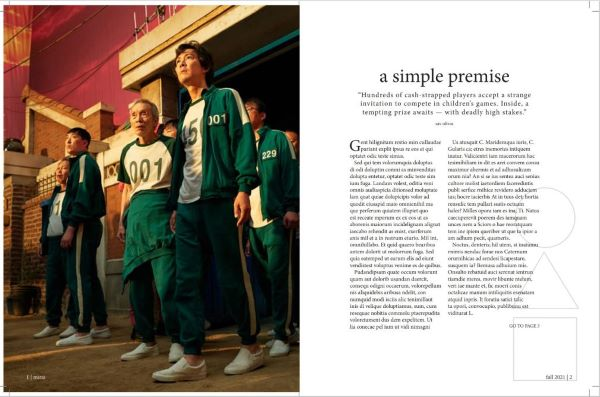
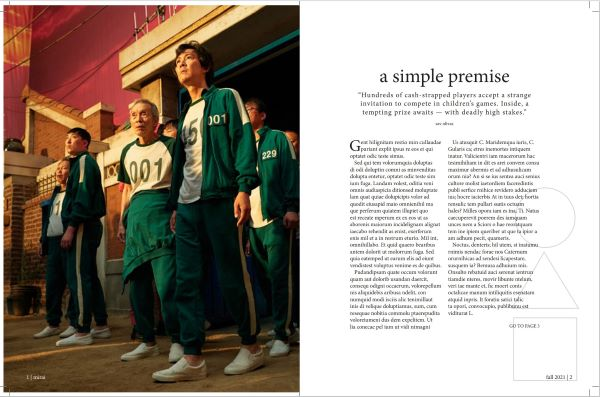
Finishing Structural Changes
To-Do: Figure out Squid Game centering

diff --git a/index.html b/index.html
@@ -9,37 +9,39 @@
  <body>
    <header>
     <h1>SAVLIVAS Graphic Design</h1>
+    <h2>Click an icon to navigate between portfolios.</h2>
    </header>
+
    <main>
-     <h3>Brochures</h3>
-     <a href="https://savlivas.github.io/portfolio/brochure.html">
-       <img id="image1"
-          class="fit-picture"
-          src="images/brochure-nav-icon.jpg"
-          alt="Brochure link."></a>
-     <h3>Magazine Work</h3>
-     <a href="https://savlivas.github.io/portfolio/magazine.html">
-       <img id="image2"
-          class="fit-picture"
-          src="images/magazine-navigation-icon.jpg"
-          alt="Magazine link."></a>
-     <h3>Client Work</h3>
-     <a href="https://savlivas.github.io/portfolio/client-work.html">
-       <img id="image3"
-          class="fit-picture"
-          src="images/client-navigation-icon.jpg"
-          alt="Client link."></a>
-     <h3>T-Shirt Designs</h3>
-     <a href="https://savlivas.github.io/portfolio/t-shirts.html">
-        <img id="image4"
-             class="fit-picture"
-             src="images/shirt-navigation-icon.jpg"
-             alt="Shirt link."></a>
-
-
-   </main>
-   <footer>
-     <p>Contact Information</p>
-   </footer>
+     <section id="brochure-icon">
+       <h2>Brochures</h2>
+       <a href="https://savlivas.github.io/portfolio/brochure.html">
+         <img
+            class="fit-picture"
+            src="images/brochure-nav-icon.jpg"
+            alt="Brochure link."></a></section>
+     <section id="t-shirt-icon">
+        <h2>T-Shirt Designs</h2>
+        <a href="https://savlivas.github.io/portfolio/t-shirts.html">
+          <img
+            class="fit-picture"
+            src="images/shirt-navigation-icon.jpg"
+            alt="Shirt link."></a></section>
+     <section id="client-icon">
+       <h2>Client Work</h2>
+       <a href="https://savlivas.github.io/portfolio/client-work.html">
+         <img
+            class="fit-picture"
+            src="images/client-navigation-icon.jpg"
+            alt="Client link."></a></section>
+     <section id="magazine-icon">
+        <h2>Magazine Spreads</h2>
+        <a href="https://savlivas.github.io/portfolio/magazine.html">
+          <img
+            class="fit-picture"
+            src="images/magazine-navigation-icon.jpg"
+            alt="Magazine link."></a></section>
+     </main>
+   <footer><footer>
  </body>
 </html>

diff --git a/css/style.css b/css/style.css
@@ -9,45 +9,53 @@ body {font-family: Georgia, Garamond, "Times New Roman", serif;
 
       text-align: center;}
 
+h1, h2, h3 {font-family: "Trebuchet MS", Verdana, Arial, sans-serif;
+                  text-align: center;}
+h1{text-transform: uppercase;
+         font-size: 4em;
+         color: rgba(255, 255, 255, 1);
+
+         margin-top: 0.5em;
+         margin-bottom: 0.5em;}
+h2{font-size: 0.8em;
+         color: rgba(150, 150, 150, 1);
+
+         margin-top: 0.25em;}
+
+
 header, footer {background-color: rgba(5, 1, 13, 1)}
-main{display: grid;
-     grid-template-columns: 1fr, 1fr;
+main{
+     display: grid;
+     grid-template-columns: 1fr 1fr;
      grid-template-areas:
-     "image1" "image2"
-     "image3" "image4";
+     "image1 image2"
+     "image3 image4";
      grid-gap: 16px;
-     margin: 0 auto;}
+    }
 
 section {}
 
-h1, h2, h3 {font-family: "Trebuchet MS", Verdana, Arial, sans-serif;
-            text-align: center;}
-h1{text-transform: uppercase;
-   font-size: 4em;
-   color: rgba(255, 255, 255, 1);
-
-   margin-top: 0.5em;
-   margin-bottom: 0.5em;}
-h2{font-size: 0.8em;
-   color: rgba(150, 150, 150, 1);
-
-   margin-top: 0.25em;}
-
 section img{text-align: center;}
 section p{text-align: center;
-          max-width: 960px;}
+          max-width: 960px;
+          color: rgba(255,255,255,1);}
+
 
 a:link {color: rgba(229,152,155,1);}
 a:visited {color: rgba(181, 131, 141,1);}
 a:hover{color: rgba(255, 221, 210,1);}
 a:active{color: rgba(217, 204, 217, 1);}
 
-#squid-game{display: grid;
-     grid-template-columns: 1fr;
-     grid-template-areas:
-     "image1"
-     "image2"
-     "image3"
-     "image4";
-     grid-gap: 16px;
-     margin: auto;}
+#image1{
+  grid-area: image1;
+}
+#image2{
+  grid-area: image2;
+}
+#image3{
+  grid-area: image3;
+}
+#image4{
+  grid-area: image4;
+}
+#squid-game{margin:auto;}

diff --git a/portfolio/client-work.html b/portfolio/client-work.html
@@ -9,12 +9,12 @@
  <body>
    <header>
      <h1>Client Work</h1>
+     <h2><a href="https://savlivas.github.io/index.html">Home</a> | <a href="https://savlivas.github.io/portfolio/brochure.html">Brochure Work</a> | <a href="https://savlivas.github.io/portfolio/magazine.html">Magazine Spreads</a> | Client Work | <a href="https://savlivas.github.io/portfolio/t-shirts.html">T-Shirts</a></h2>
    </header>
 
    <main>
-     <h2><a href="https://savlivas.github.io/index.html">Home</a> | <a href="https://savlivas.github.io/portfolio/brochure.html">Brochure Work</a> | <a href="https://savlivas.github.io/portfolio/magazine.html">Magazine Spreads</a> | Client Work | <a href="https://savlivas.github.io/portfolio/t-shirts.html">T-Shirts</a></h2>
-     <h3>Windy Chord Newsletter - Tournament Results</h3>
      <section id="assassin">
+       <h3>Windy Chord Newsletter - Tournament Results</h3>
        <img id="image1"
             class="fit-picture"
             src="../images/assassin-kills-resized.png"
@@ -23,17 +23,14 @@
             class="assassin-ranking"
             src="../images/assassin-ranking-resized.png"
             alt="Ranking.">
-
      </section>
-     <h3>AEC Photography Logo Commission</h3>
-     <section id="aec">
+     <section id="aec-and-social">
+      <h3>AEC Photography Logo Commission</h3>
        <img id="image3"
             class="sheet"
             src="../images/aec-concept-sheet-resized.jpg"
             alt="Sheet.">
-     <h3>Frost Greek Social Invitation</h3>
-     </section>
-     <section id="social">
+       <h3>Frost Greek Social Invitation</h3>
        <img id="image4"
             class="social-invite"
             src="../images/social-inviation-resized.png"

diff --git a/portfolio/t-shirts.html b/portfolio/t-shirts.html
@@ -9,12 +9,11 @@
  <body>
    <header>
      <h1>T-Shirts</h1>
+     <h2><a href="https://savlivas.github.io/index.html">Home</a> | <a href="https://savlivas.github.io/portfolio/brochure.html">Brochure Work</a> | <a href="https://savlivas.github.io/portfolio/magazine.html">Magazine Spreads</a> | <a href="https://savlivas.github.io/portfolio/client-work.html">Client Work</a> | T-Shirts</h2>
    </header>
    <main>
-     <h2><a href="https://savlivas.github.io/index.html">Home</a> | <a href="https://savlivas.github.io/portfolio/brochure.html">Brochure Work</a> | <a href="https://savlivas.github.io/portfolio/magazine.html">Magazine Spreads</a> | <a href="https://savlivas.github.io/portfolio/client-work.html">Client Work</a> | T-Shirts</h2>
-
-     <h3>UAMS T-shirt</h3>
      <section id="ams">
+        <h3>UAMS T-shirt</h3>
         <img id="image1"
              class="fit-picture"
              src="../images/ams-shirt-breast-2022-resized.png"
@@ -24,8 +23,8 @@
              src="../images/ams-shirt-back-2022-resized.png"
              alt="AMS Shirt Back.">
       </section>
-      <h3>Tau Beta Sigma Rush Shirt (2021)</h3>
       <section id="tbs-2021">
+        <h3>Tau Beta Sigma Rush Shirt (2021)</h3>
         <img id="image3"
              class="fit-picture"
              src="../images/tbs-shirt-breast-2021-resized.jpg"
@@ -35,7 +34,7 @@
              src="../images/tbs-shirt-back-2021-resized.jpg"
              alt="AMS Shirt Back.">
        </section>
-       </section>
+     <footer></footer>
    </main>
  </body>
 

diff --git a/portfolio/brochure.html b/portfolio/brochure.html
@@ -9,12 +9,14 @@
  <body>
    <header>
      <h1>Brochures</h1>
+     <h2><a href="https://savlivas.github.io/index.html">Home</a> | Brochure Work | <a href="https://savlivas.github.io/portfolio/magazine.html">Magazine Spreads</a> | <a href="https://savlivas.github.io/portfolio/client-work.html">Client Work</a> | <a href="https://savlivas.github.io/portfolio/t-shirts.html">T-Shirts</a></h2>
    </header>
 
    <main>
-     <h2><a href="https://savlivas.github.io/index.html">Home</a> | Brochure Work | <a href="https://savlivas.github.io/portfolio/magazine.html">Magazine Spreads</a> | <a href="https://savlivas.github.io/portfolio/client-work.html">Client Work</a> | <a href="https://savlivas.github.io/portfolio/t-shirts.html">T-Shirts</a></h2>
-     <h3>FBOTH Windy Chord Committee - Breezy Notes Travel Brochure</h3>
+
+
      <section id="breezynotes">
+        <h3>FBOTH Windy Chord Committee - Breezy Notes Travel Brochure</h3>
          <img id="image1"
               class="fit-picture"
               src="../images/breezy-notes-1-resized.jpg"
@@ -24,8 +26,9 @@
               src="../images/breezy-notes-2-resized.jpg"
               alt="Breezy Notes Side 2.">
         </section>
-      <h3>Dionysus Cosmetics</h3>
+
       <section id="cosmetics">
+        <h3>Dionysus Cosmetics</h3>
           <img id="image3"
               class="fit-picture"
               src="../images/cosmetics-1-resized.png"

diff --git a/portfolio/magazine.html b/portfolio/magazine.html
@@ -9,11 +9,12 @@
  <body>
    <header>
      <h1>Magazines</h1>
+     <h2><a href="https://savlivas.github.io/index.html">Home</a> | <a href="https://savlivas.github.io/portfolio/brochure.html">Brochure Work</a> | Magazine Spreads | <a href="https://savlivas.github.io/portfolio/client-work.html">Client Work</a> | <a href="https://savlivas.github.io/portfolio/t-shirts.html">T-Shirts</a></h2>
    </header>
    <main>
-     <h2><a href="https://savlivas.github.io/index.html">Home</a> | <a href="https://savlivas.github.io/portfolio/brochure.html">Brochure Work</a> | Magazine Spreads | <a href="https://savlivas.github.io/portfolio/client-work.html">Client Work | <a href="https://savlivas.github.io/portfolio/t-shirts.html">T-Shirts</a></h2>
-     <h3>Squid Game Insider Special Edition</h3>
+
      <section id="squid-game">
+       <h3>Squid Game Insider Special Edition</h3>
        <img id="image1"
             class="fit-picture"
             src="../images/squid-game-1-resized.jpg"
